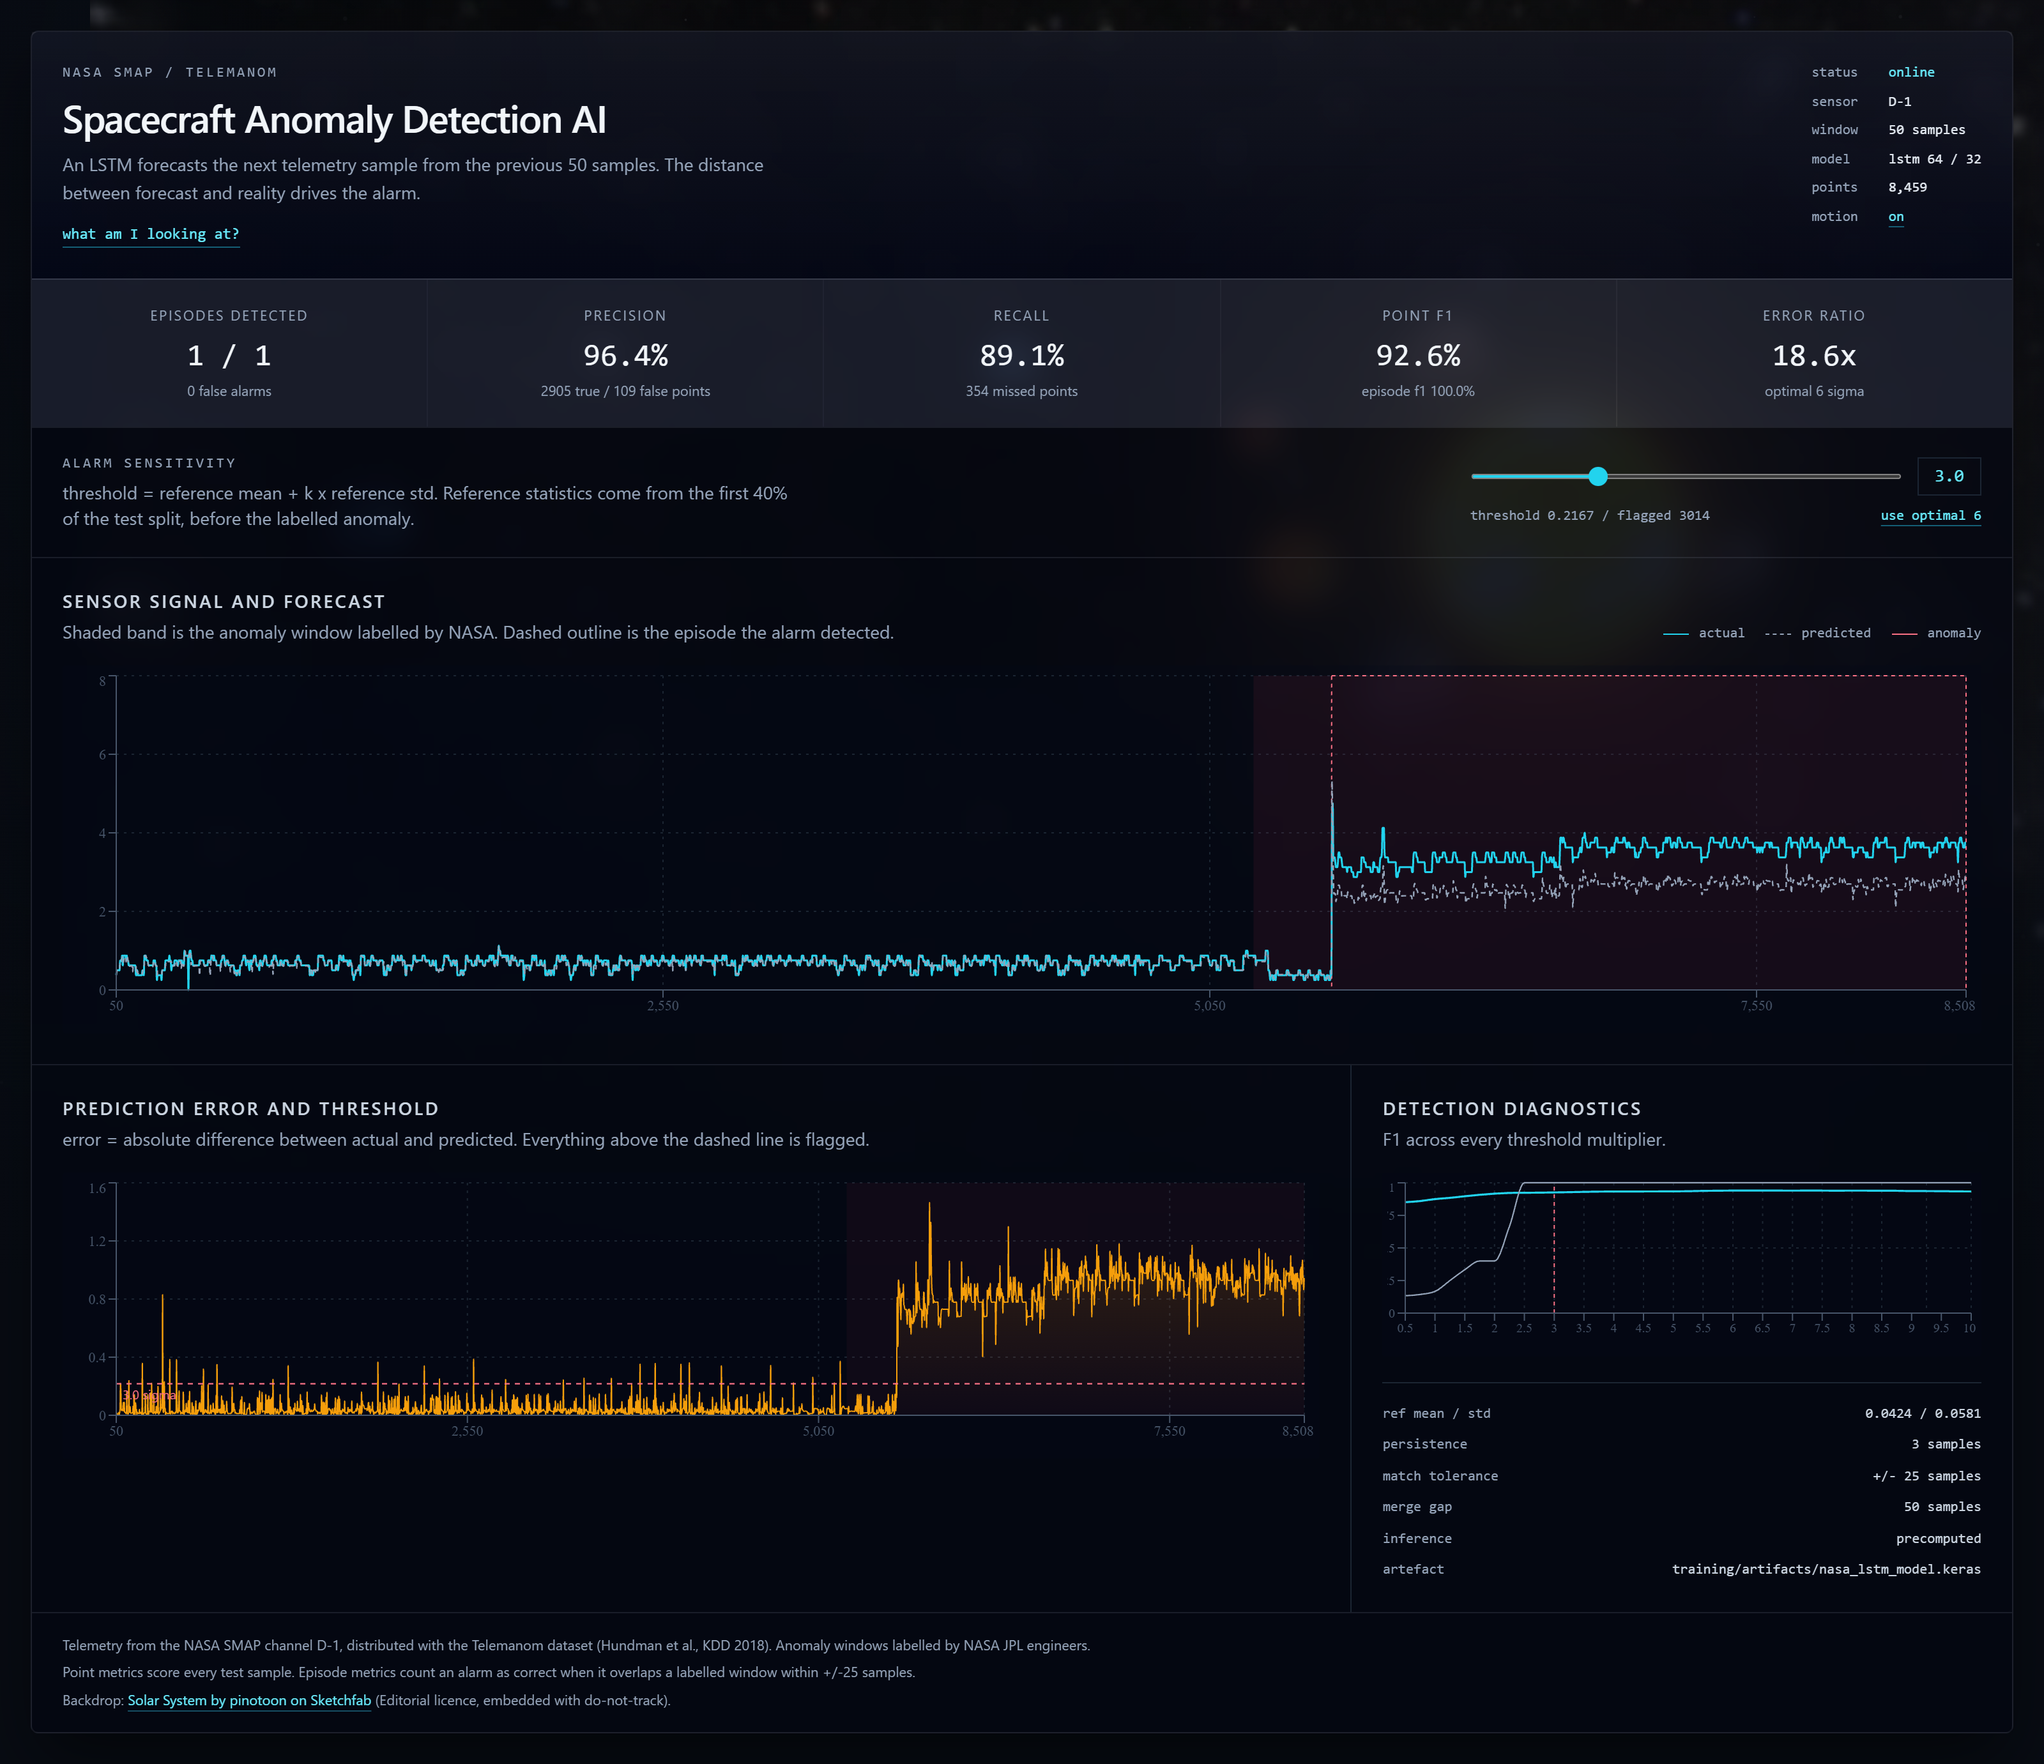
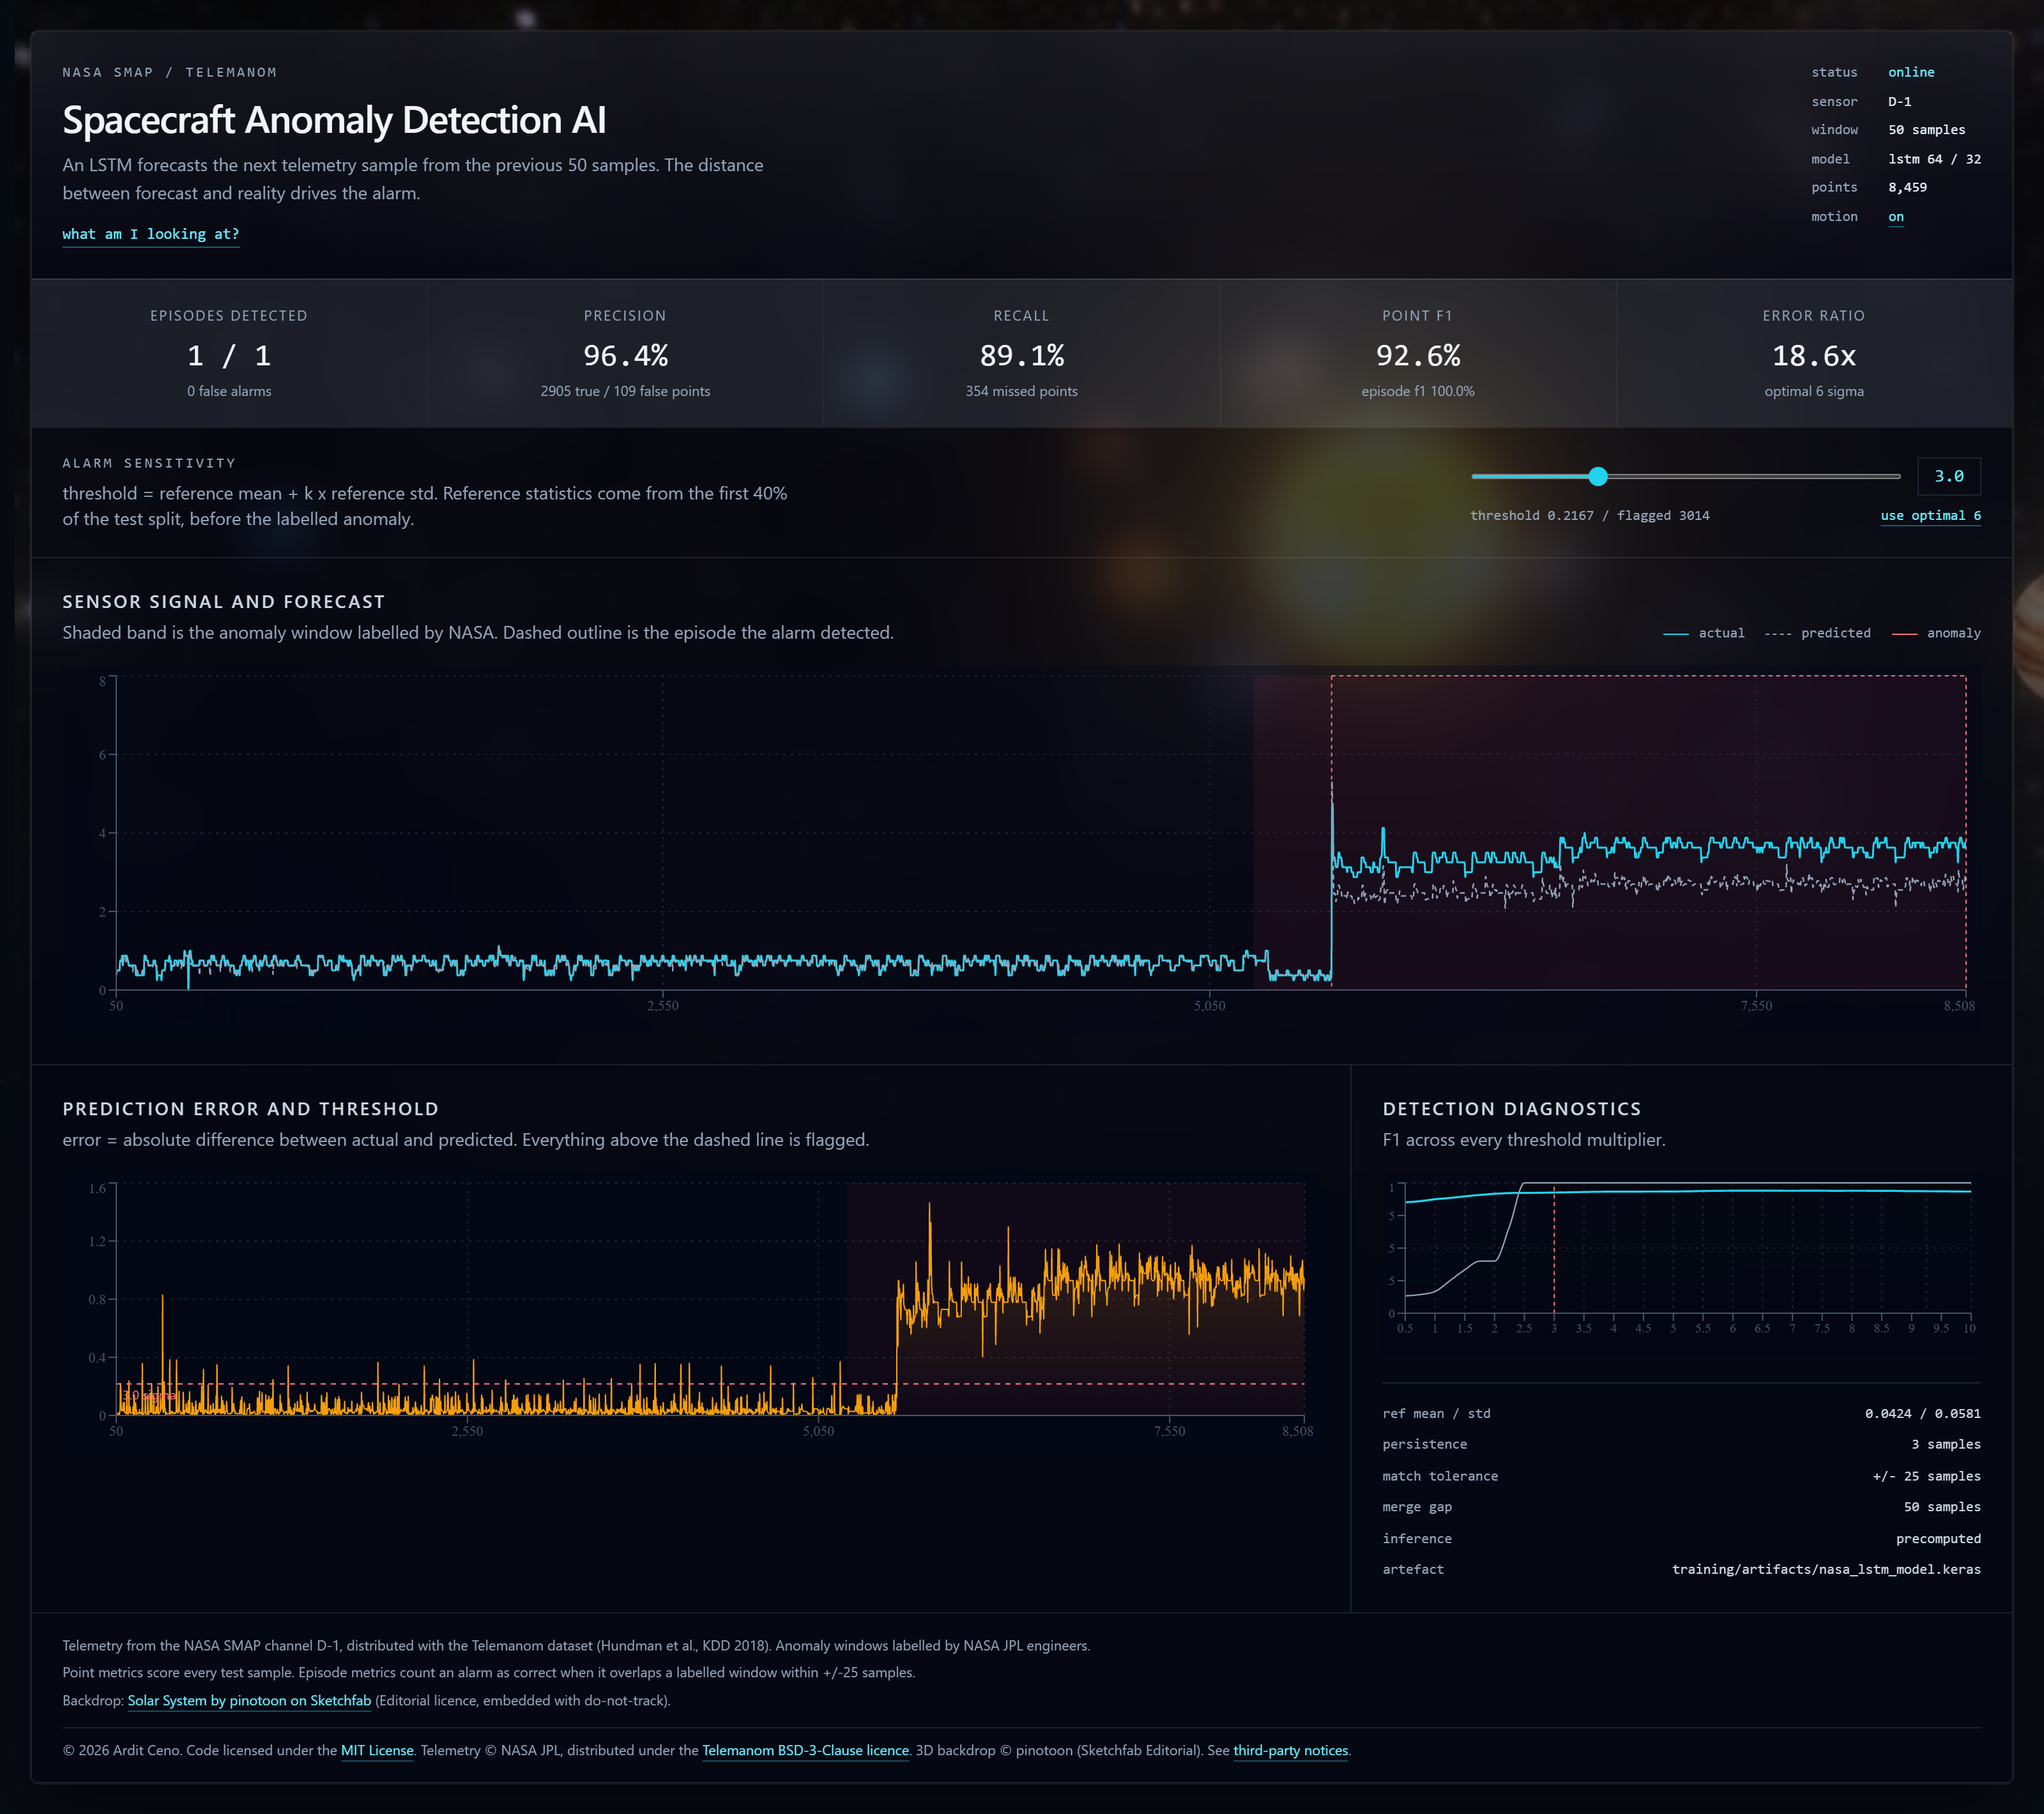
feat(frontend): strengthen the glass backdrop and add license credits

diff --git a/frontend/src/App.jsx b/frontend/src/App.jsx
@@ -116,7 +116,7 @@ function ChartTooltip({ active, payload, label }) {
 
 function Metric({ label, value, sub }) {
   return (
-    <div className="px-5 py-5 text-center" style={{ backgroundColor: 'rgba(2,6,12,0.22)' }}>
+    <div className="px-5 py-5 text-center" style={{ backgroundColor: 'rgba(2,6,12,0.18)' }}>
       <div className="text-[11px] uppercase tracking-[0.12em] text-slate-400">{label}</div>
       <div className="mt-1.5 font-mono text-2xl text-slate-100">{value}</div>
       <div className="mt-1 text-[11px] text-slate-400">{sub}</div>
@@ -188,10 +188,10 @@ function SpaceBackdrop({ showIframe, motion, loaded, onLoad }) {
           onLoad={onLoad}
           className="absolute inset-0 h-full w-full border-0"
           style={{
-            opacity: loaded ? 0.74 : 0,
-            transform: 'scale(1.2) translateX(12%)',
+            opacity: loaded ? 0.92 : 0,
+            transform: 'scale(1.12) translateX(6%)',
             transformOrigin: 'center',
-            filter: 'brightness(0.9) saturate(0.95)',
+            filter: 'brightness(1) saturate(1)',
             transition: 'opacity 1.4s ease',
           }}
         />
@@ -200,14 +200,14 @@ function SpaceBackdrop({ showIframe, motion, loaded, onLoad }) {
         className="absolute inset-0"
         style={{
           background:
-            'linear-gradient(180deg, rgba(7,11,18,0.18) 0%, rgba(7,11,18,0.45) 45%, rgba(7,11,18,0.82) 100%)',
+            'linear-gradient(180deg, rgba(7,11,18,0.10) 0%, rgba(7,11,18,0.35) 45%, rgba(7,11,18,0.78) 100%)',
         }}
       />
       <div
         className="absolute inset-0"
         style={{
           background:
-            'radial-gradient(circle at 50% 35%, rgba(7,11,18,0.02) 0%, rgba(7,11,18,0.28) 65%, rgba(7,11,18,0.75) 100%)',
+            'radial-gradient(circle at 50% 35%, rgba(7,11,18,0.00) 0%, rgba(7,11,18,0.20) 65%, rgba(7,11,18,0.70) 100%)',
         }}
       />
       <div
@@ -458,8 +458,8 @@ export default function App() {
       <AboutDialog dialogRef={aboutRef} />
       <div className="relative z-10 w-full px-3 py-6 sm:px-5 lg:px-6">
         <div className="w-full">
-        <div className="w-full rounded-md border border-white/10 bg-slate-950/55 shadow-2xl shadow-black/60 backdrop-blur-md">
-          <header className="flex flex-col gap-6 bg-gradient-to-b from-white/[0.05] to-slate-950/40 px-6 py-6 lg:flex-row lg:items-start lg:justify-between">
+        <div className="w-full rounded-md border border-white/10 bg-slate-950/40 shadow-2xl shadow-black/60 ring-1 ring-white/5 backdrop-blur-lg">
+          <header className="flex flex-col gap-6 bg-gradient-to-b from-white/[0.06] to-slate-950/25 px-6 py-6 lg:flex-row lg:items-start lg:justify-between">
             <div>
               <p className="font-mono text-[11px] uppercase tracking-[0.18em] text-slate-400">
                 nasa {spacecraft.toLowerCase()} / telemanom
@@ -532,7 +532,7 @@ export default function App() {
             />
           </div>
 
-          <section className="border-t px-6 py-5" style={{ borderColor: 'rgba(148,163,184,0.14)', backgroundColor: 'rgba(2,6,12,0.35)' }}>
+          <section className="border-t px-6 py-5" style={{ borderColor: 'rgba(148,163,184,0.14)', backgroundColor: 'rgba(2,6,12,0.30)' }}>
             <div className="flex flex-col gap-5 lg:flex-row lg:items-center lg:justify-between">
               <div>
                 <h2 className="font-mono text-[11px] uppercase tracking-[0.18em] text-slate-400">
@@ -575,7 +575,7 @@ export default function App() {
             </div>
           </section>
 
-          <section className="border-t px-6 py-6" style={{ borderColor: 'rgba(148,163,184,0.14)', backgroundColor: 'rgba(2,6,12,0.35)' }}>
+          <section className="border-t px-6 py-6" style={{ borderColor: 'rgba(148,163,184,0.14)', backgroundColor: 'rgba(2,6,12,0.30)' }}>
             <div className="mb-4 flex flex-col gap-3 sm:flex-row sm:items-end sm:justify-between">
               <div>
                 <h2 className="text-sm font-semibold uppercase tracking-[0.12em] text-slate-300">
@@ -592,7 +592,7 @@ export default function App() {
                 <LegendItem color="#fb7185" label="anomaly" />
               </div>
             </div>
-            <div className="h-72 w-full rounded-sm bg-slate-950/25 p-1">
+            <div className="h-72 w-full rounded-sm bg-slate-950/35 p-1">
               <ResponsiveContainer width="100%" height="100%">
                 <ComposedChart data={chartData} margin={{ top: 4, right: 8, bottom: 0, left: -14 }}>
                   <CartesianGrid stroke={RULE} strokeDasharray="2 4" />
@@ -656,7 +656,7 @@ export default function App() {
             </div>
           </section>
 
-          <div className="grid border-t lg:grid-cols-3" style={{ borderColor: 'rgba(148,163,184,0.14)', backgroundColor: 'rgba(2,6,12,0.35)' }}>
+          <div className="grid border-t lg:grid-cols-3" style={{ borderColor: 'rgba(148,163,184,0.14)', backgroundColor: 'rgba(2,6,12,0.30)' }}>
             <section className="border-b px-6 py-6 lg:col-span-2 lg:border-b-0 lg:border-r" style={{ borderColor: RULE }}>
               <h2 className="text-sm font-semibold uppercase tracking-[0.12em] text-slate-300">
                 Prediction error and threshold
@@ -665,7 +665,7 @@ export default function App() {
                 error = absolute difference between actual and predicted. Everything above the dashed line
                 is flagged.
               </p>
-              <div className="mt-4 h-56 w-full rounded-sm bg-slate-950/25 p-1">
+              <div className="mt-4 h-56 w-full rounded-sm bg-slate-950/35 p-1">
                 <ResponsiveContainer width="100%" height="100%">
                   <AreaChart data={chartData} margin={{ top: 4, right: 8, bottom: 0, left: -14 }}>
                     <defs>
@@ -731,7 +731,7 @@ export default function App() {
                 Detection diagnostics
               </h2>
               <p className="mt-1 text-sm text-slate-400">F1 across every threshold multiplier.</p>
-              <div className="mt-4 h-36 w-full rounded-sm bg-slate-950/20 p-1">
+              <div className="mt-4 h-36 w-full rounded-sm bg-slate-950/30 p-1">
                 {curve ? (
                   <ResponsiveContainer width="100%" height="100%">
                     <LineChart data={curve.points} margin={{ top: 4, right: 4, bottom: 0, left: -24 }}>
@@ -805,7 +805,7 @@ export default function App() {
             </section>
           </div>
 
-          <footer className="border-t px-6 py-4 text-[11px] leading-relaxed text-slate-400" style={{ borderColor: 'rgba(148,163,184,0.14)', backgroundColor: 'rgba(2,6,12,0.35)' }}>
+          <footer className="border-t px-6 py-4 text-[11px] leading-relaxed text-slate-400" style={{ borderColor: 'rgba(148,163,184,0.14)', backgroundColor: 'rgba(2,6,12,0.30)' }}>
             <p>
               Telemetry from the NASA SMAP channel D-1, distributed with the Telemanom dataset (Hundman et
               al., KDD 2018). Anomaly windows labelled by NASA JPL engineers.
@@ -825,6 +825,36 @@ export default function App() {
                 Solar System by pinotoon on Sketchfab
               </a>{' '}
               (Editorial licence, embedded with do-not-track).
+            </p>
+            <p className="mt-3 border-t border-white/10 pt-2 text-slate-400">
+              © 2026 Ardit Ceno. Code licensed under the{' '}
+              <a
+                href="https://github.com/ArditCeno/Spacecraft-Anomaly-Detection-AI/blob/main/LICENSE"
+                target="_blank"
+                rel="noreferrer noopener"
+                className="text-cyan-300 underline decoration-cyan-900 underline-offset-4 hover:text-cyan-200"
+              >
+                MIT License
+              </a>
+              . Telemetry © NASA JPL, distributed under the{' '}
+              <a
+                href="https://github.com/khundman/telemanom/blob/master/LICENSE.txt"
+                target="_blank"
+                rel="noreferrer noopener"
+                className="text-cyan-300 underline decoration-cyan-900 underline-offset-4 hover:text-cyan-200"
+              >
+                Telemanom BSD-3-Clause licence
+              </a>
+              . 3D backdrop © pinotoon (Sketchfab Editorial). See{' '}
+              <a
+                href="https://github.com/ArditCeno/Spacecraft-Anomaly-Detection-AI/blob/main/NOTICE.md"
+                target="_blank"
+                rel="noreferrer noopener"
+                className="text-cyan-300 underline decoration-cyan-900 underline-offset-4 hover:text-cyan-200"
+              >
+                third-party notices
+              </a>
+              .
             </p>
           </footer>
         </div>
